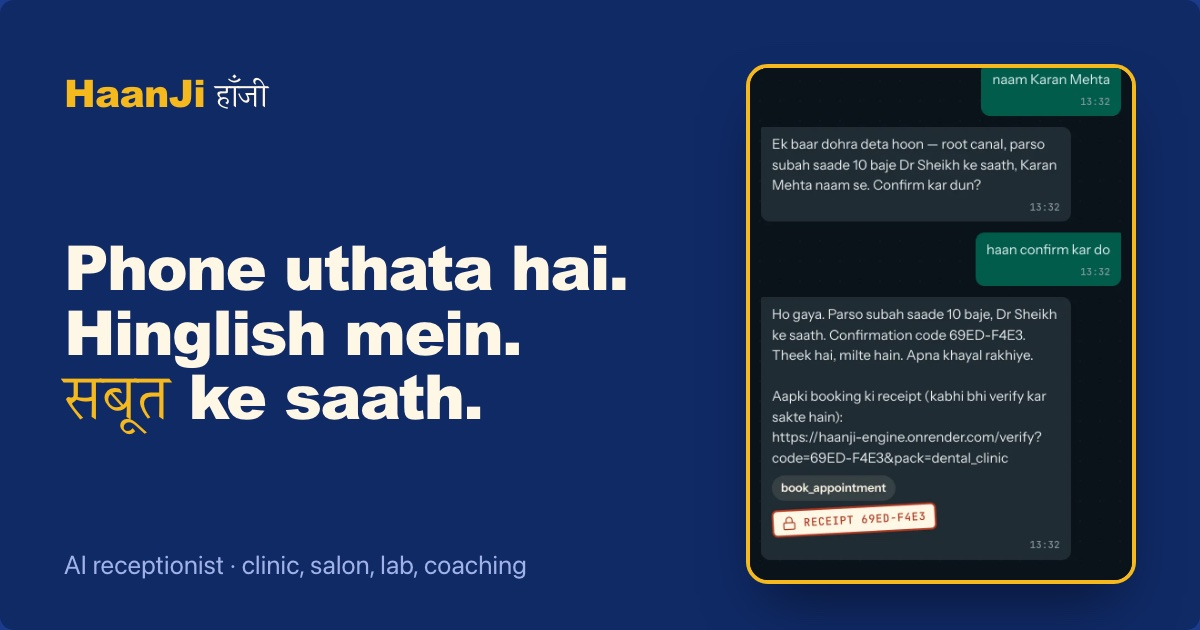
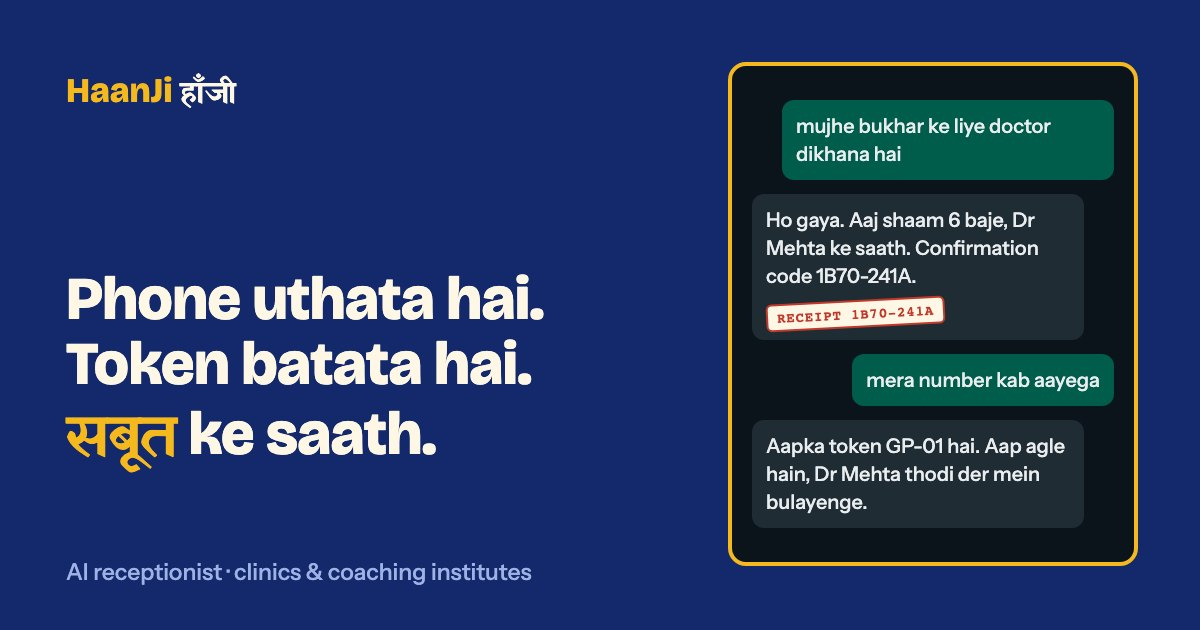
client walkthrough fixes: the call page hears only its own takeover, true next-free times, the nav never clips, clinic-first sample, new screenshot and preview image
Found by walking the product as a visitor, an owner and a receptionist:
- /talk read the shop's whole event stream for a person taking over: every
  other caller's turns with sign-in off, a 401 (and no human replies) with
  it on. It now listens on /api/sessions/{sid}/events, which carries only
  that call's takeover, the person's replies and the hand-back.
- "Today's doctors" said "full today" after closing time; it now shows each
  doctor's next free time (today, or the next open day) and says when there
  are no more slots today.
- The console's links clipped ("Custo", "Settir") from 1101 to 1599 px with
  the Queue link and the signed-in tools; they now take their own row there.
- Sample mode opened on the coaching institute and gave it a bleeding
  emergency; it opens on the clinic, and coaching's urgent handoff is a
  student in distress.
- The landing's screenshot was the old dental shop in Hinglish with test
  numbers; the preview image said "clinic, salon, lab, coaching": both
  replaced (clinic sample in English; the queue answer in the preview).
  Titles, descriptions, the footer and the engine's own page now say
  clinics and coaching institutes; New shop offers clinic or coaching.

diff --git a/engine/haanji/web/index.html b/engine/haanji/web/index.html
@@ -4,10 +4,10 @@
 <meta charset="utf-8">
 <meta name="viewport" content="width=device-width, initial-scale=1">
 <title data-hi="HaanJi · AI receptionist jo Hinglish mein phone uthata hai">HaanJi · the AI receptionist that answers the phone in Hinglish</title>
-<meta name="description" content="An AI receptionist for clinics, salons, labs and coaching centres. A customer calls or messages on WhatsApp, HaanJi talks in Hinglish and makes the booking, and keeps a signed proof of every booking.">
+<meta name="description" content="An AI receptionist for clinics and coaching institutes. A patient or parent calls or messages on WhatsApp, HaanJi talks in Hinglish, books the right doctor or class, runs the token queue, and keeps a signed proof of every booking.">
 <meta property="og:type" content="website">
 <meta property="og:title" content="HaanJi · the AI receptionist that answers the phone in Hinglish">
-<meta property="og:description" content="A customer calls or messages on WhatsApp and HaanJi books the slot. The owner gets a calendar, a call-back list and a proof of every booking. A 2-minute demo in the browser.">
+<meta property="og:description" content="For clinics and coaching institutes: a patient calls or messages on WhatsApp and HaanJi books the right doctor. The owner gets a calendar, a token queue, a call-back list and a proof of every booking.">
 <!-- Link previews need an absolute image URL; this is the public demo's copy. -->
 <meta property="og:image" content="https://haanji-engine.onrender.com/static/og.jpg">
 <meta property="og:image:width" content="1200">
@@ -168,7 +168,7 @@
   <section class="hero wrap">
     <div class="hero-copy">
       <h1 data-reveal style="--i:1" data-hi-html="Phone uthata hai.&lt;br&gt;Hinglish mein.&lt;br&gt;&lt;span class=&quot;dev&quot;&gt;सबूत&lt;/span&gt; ke saath.">Answers the phone.<br>In Hinglish.<br>With proof.</h1>
-      <p class="lead" data-reveal style="--i:2" data-hi="Clinic, salon, lab aur coaching ke liye AI receptionist. Customer call ya WhatsApp kare, HaanJi uski bhasha mein baat karke slot book karta hai, aur har booking ka signed saboot aapke paas rehta hai.">An AI receptionist for clinics, salons, labs and coaching centres. A customer calls or sends a WhatsApp message, HaanJi talks in their language and books the slot, and you keep a signed proof of every booking.</p>
+      <p class="lead" data-reveal style="--i:2" data-hi="Clinic aur coaching institute ke liye AI receptionist. Patient ya parent call ya WhatsApp kare, HaanJi uski bhasha mein baat karke sahi doctor ya class book karta hai, reception ki token queue chalata hai, aur har booking ka signed saboot aapke paas rehta hai.">An AI receptionist for clinics and coaching institutes. A patient or parent calls or sends a WhatsApp message, HaanJi talks in their language, books the right doctor or class, runs the token queue at reception, and you keep a signed proof of every booking.</p>
       <div class="row" data-reveal style="--i:3">
         <a class="btn btn-primary" href="talk" data-hi-html="Abhi baat karke dekho &lt;i data-icon=&quot;arrow&quot;&gt;&lt;/i&gt;">Talk to it now <i data-icon="arrow"></i></a>
         <a class="btn btn-ghost" data-pilot-alt href="#kaise" data-hi="Kaise kaam karta hai">How it works</a>
@@ -236,10 +236,9 @@
         <p class="lead" data-hi="Har business ek pack hai: services, daam, timing, staff, aur woh shabd jo log galat bolte hain. Naya business console ke &quot;Nayi dukaan&quot; mein paanch sawaalon se judta hai.">Each business is a pack: services, prices, hours, staff, and the words people get wrong. A new business is added in five questions, under "New shop" in the console.</p>
       </div>
       <ul class="kinds">
-        <li><b>Dental clinic</b><span>Hinglish · Tanglish (Chennai) · Benglish (Kolkata) · Marathinglish (Pune)</span></li>
-        <li><b data-hi="Salon aur spa">Salon and spa</b><span>Hinglish · Punglish (Ludhiana)</span></li>
-        <li><b>Diagnostic lab</b><span>Hinglish · Tenglish (Hyderabad)</span></li>
-        <li><b>Coaching institute</b><span>Hinglish · Gujlish (Ahmedabad)</span></li>
+        <li><b data-hi="Multispeciality clinic">Multispeciality clinic</b><span data-hi="Dental, general surgery, general physician, bachchon ke doctor, haddi ke doctor, gynaecology · 13 doctors · token queue">Dental, general surgery, general physician, paediatrics, orthopaedics, gynaecology · 13 doctors · token queue</span></li>
+        <li><b>Coaching institute</b><span data-hi="Class 10 aur 11–12 boards (CBSE, ICSE, IB), JEE, NEET">Class 10 and 11–12 boards (CBSE, ICSE, IB), JEE, NEET</span></li>
+        <li><b data-hi="Bhashayein">Languages tested</b><span>Hinglish · Tanglish · Benglish · Marathinglish · Punglish · Tenglish · Gujlish</span></li>
       </ul>
     </div>
   </section>

diff --git a/engine/haanji/web/talk.html b/engine/haanji/web/talk.html
@@ -92,7 +92,7 @@
   .ebody p { text-wrap: pretty; }
   .engine header a { display: inline-flex; align-items: center; gap: 4px; min-height: 24px; }
   /* today's doctors, by department, in the space before the call */
-  .doctors { max-width: 760px; margin: 18px auto 0; }
+  .doctors { width: 100%; max-width: 760px; margin: 18px auto 0; align-self: center; }
   .doctors h2 { font-size: 15px; letter-spacing: .08em; text-transform: uppercase; color: var(--marigold); margin: 0 0 10px; }
   .doctors h2 .closed { color: var(--haze); text-transform: none; letter-spacing: 0; }
   .doctors .depts { display: grid; grid-template-columns: repeat(auto-fill, minmax(200px, 1fr)); gap: 10px; }
@@ -102,6 +102,7 @@
   .doctors li { display: flex; justify-content: space-between; gap: 8px; font-size: 14px; }
   .doctors li span { font-size: 12.5px; color: var(--haze); white-space: nowrap; }
   .doctors li span.free { color: var(--leaf); }
+  .doctors li span.later { color: var(--chalk); opacity: .8; }
   /* the booking card under the agent's reply */
   .bkcard { display: flex; flex-direction: column; gap: 3px; margin-top: 8px; padding: 12px 14px; border-radius: 12px;
             border: 1.5px solid var(--marigold); background: rgba(245, 185, 30, .1); width: 100%; }
@@ -207,7 +208,7 @@
   function listenForHuman() {
     if (!("EventSource" in window) || humanSource) return;
     try {
-      humanSource = new EventSource("api/events?pack=" + encodeURIComponent($("pack").value));
+      humanSource = new EventSource("api/sessions/" + encodeURIComponent(sid) + "/events");
       humanSource.addEventListener("turn", function (ev) {
         try {
           const e = JSON.parse(ev.data);
@@ -315,11 +316,15 @@
     try { d = await api("api/packs/" + encodeURIComponent($("pack").value) + "/doctors"); } catch (e) { d = null; }
     if (!d || !d.departments || !d.departments.length) { box.hidden = true; return; }
     const head = d.role === "doctor" ? L("Today's doctors", "Aaj ke doctors") : L("Today's counsellors", "Aaj ke counsellors");
-    box.innerHTML = "<h2>" + S.esc(head) + (d.open_today ? "" : ' <span class="closed">' + S.esc(L("closed today", "aaj band")) + "</span>") + "</h2>" +
+    const anyToday = d.departments.some(function (g) { return g.staff.some(function (p) { return p.next_free && p.next_free.date === todayIso(); }); });
+    const note = anyToday ? "" : d.open_today ? L("no more slots today", "aaj aur slot nahi") : L("closed today", "aaj band");
+    box.innerHTML = "<h2>" + S.esc(head) + (note ? ' <span class="closed">' + S.esc(note) + "</span>" : "") + "</h2>" +
       '<div class="depts">' + d.departments.map(function (g) {
         return '<div class="dept"><h3>' + S.esc(g.name) + "</h3><ul>" + g.staff.map(function (p) {
-          const when = p.next_free ? L("free at ", "khaali ") + p.next_free : (d.open_today ? L("full today", "aaj full") : "—");
-          return "<li><b>" + S.esc(p.name) + '</b><span class="' + (p.next_free ? "free" : "full") + '">' + S.esc(when) + "</span></li>";
+          const nf = p.next_free;
+          const today = nf && nf.date === todayIso();
+          const when = !nf ? L("no slot this week", "is hafte slot nahi") : today ? L("free at ", "khaali ") + nf.time : dayLabel(nf.date) + " " + nf.time;
+          return "<li><b>" + S.esc(p.name) + '</b><span class="' + (today ? "free" : "later") + '">' + S.esc(when) + "</span></li>";
         }).join("") + "</ul></div>";
       }).join("") + "</div>";
     box.hidden = false;

diff --git a/console/src/sample.ts b/console/src/sample.ts
@@ -32,7 +32,8 @@ export function packInfo(pack: string): PackInfo { return ALL.find((p) => p.pack
 
 // The product is a multispeciality clinic and a coaching institute; the other
 // packs are the research corpus and are not offered as shops.
-const PRODUCT = ALL.filter((p) => p.product);
+// The clinic first: it is the shop the demo opens on.
+const PRODUCT = ALL.filter((p) => p.product).sort((a, b) => Number(b.staff_role === "doctor") - Number(a.staff_role === "doctor"));
 export const SAMPLE_STATUS: Status = {
   name: "HaanJi demo server", version: "1.2.0", default_pack: PRODUCT[0]?.pack_id ?? "dental_clinic",
   packs: (PRODUCT.length ? PRODUCT : ALL).map((p) => p.pack_id),
@@ -268,6 +269,13 @@ function build(p: PackInfo, now: Date): Shop {
       turns = [turn(ask, `${why} Aapka number note kar leta hoon, team aapko call karegi.`),
                turn(`haan theek hai, naam ${person.name || "Ravi"} hai`, "Theek hai, team aapko call karegi.", { tools: ["capture_lead"] })];
     } else if (outcome === "HANDED_OFF") {
+      if (r() < .45 && !/doctor|dentist/i.test(p.staff_role)) {
+        // a coaching institute has no medical emergencies: its urgent handoff is a student in distress
+        turns = [turn("mera beta bahut tension mein hai, pressure nahi jhel pa raha", p.escalation_line,
+                      { tools: ["handoff"], guard: "coaching.distress" })];
+        calls.push(finish(`sample-${p.pack_id}-o${i}`, channelOf(), person.phone, atToday(), "HANDED_OFF", turns, []));
+        continue;
+      }
       if (r() < .45) {
         // an emergency: the engine's guardrail hands it off; out of hours it promises no transfer
         const at = atToday();

diff --git a/console/index.html b/console/index.html
@@ -4,12 +4,12 @@
     <meta charset="UTF-8" />
     <meta name="viewport" content="width=device-width, initial-scale=1.0" />
     <meta name="theme-color" content="#1B3B8C" />
-    <meta name="description" content="HaanJi answers your shop's phone and WhatsApp in Hinglish, books the appointment and keeps a signed receipt. See the demo dashboard." />
-    <title>HaanJi — AI receptionist for Indian shops</title>
+    <meta name="description" content="HaanJi answers a clinic's or coaching institute's phone and WhatsApp in Hinglish, books the right doctor or class, runs the token queue and keeps a signed receipt. See the demo." />
+    <title>HaanJi — AI receptionist for clinics and coaching institutes</title>
     <meta property="og:type" content="website" />
     <meta property="og:site_name" content="HaanJi" />
-    <meta property="og:title" content="HaanJi — AI receptionist for Indian shops" />
-    <meta property="og:description" content="Answers the phone and WhatsApp in Hinglish, books the appointment, and keeps a signed receipt of what the caller agreed to." />
+    <meta property="og:title" content="HaanJi — AI receptionist for clinics and coaching institutes" />
+    <meta property="og:description" content="Answers the phone and WhatsApp in Hinglish, books the right doctor or class, runs the token queue at reception, and keeps a signed receipt of what the caller agreed to." />
     <meta property="og:image" content="https://haanji-kappa.vercel.app/og.jpg" />
     <meta property="og:url" content="https://haanji-kappa.vercel.app/" />
     <meta name="twitter:card" content="summary_large_image" />

diff --git a/console/src/hi/home.ts b/console/src/hi/home.ts
@@ -158,4 +158,5 @@ export default {
   "Phone and WhatsApp, the calendar, the token queue, reminders, and the owner's evening summary.": "Phone aur WhatsApp, calendar, token queue, reminder, aur owner ka shaam ka summary.",
   "When a booked patient arrives, reception checks them in and they get a token such as GP-07; a walk-in gets one at the desk. Reception presses Next patient for each doctor, the waiting-room screen shows the token being seen (never a name), and a patient can call or message to ask how many are ahead.": "Booking wala patient aata hai to reception check-in karta hai aur use GP-07 jaisa token milta hai; walk-in ko desk par milta hai. Reception har doctor ke liye 'Agla patient' dabata hai, waiting room screen par token dikhta hai (naam kabhi nahi), aur patient call ya message karke puchh sakta hai ki aage kitne log hain.",
   "Yes, Hinglish, the way people mix Hindi and English on the phone. The engine has also been tested with Bengali, Marathi, Tamil, Telugu, Gujarati and Punjabi mixed with English.": "Haan, Hinglish, jaise log phone par Hindi aur English milakar bolte hain. Engine ko Bengali, Marathi, Tamil, Telugu, Gujarati aur Punjabi ke English mix ke saath bhi test kiya gaya hai.",
+  "An AI receptionist for clinics and coaching institutes: phone and WhatsApp, in the caller's language.": "Clinics aur coaching institutes ke liye AI receptionist: phone aur WhatsApp, caller ki bhasha mein.",
 } as Record<string, string>;

diff --git a/console/src/signboard.css b/console/src/signboard.css
@@ -65,6 +65,13 @@ p { margin: 0; }
 .live i { width: 7px; height: 7px; border-radius: 50%; background: var(--leaf); box-shadow: 0 0 0 3px rgba(143, 214, 148, .25); }
 .live.off { opacity: .8; }
 .live.off i { background: var(--haze); box-shadow: none; }
+/* Between the phone menu and a wide screen the app's links (six, plus Admin)
+   and its tools (shop, Sample, LIVE, AI, language, Talk, the signed-in user)
+   do not share one row: the links take a row of their own, never clipped. */
+@media (min-width: 1101px) and (max-width: 1599px) {
+  .topbar { flex-wrap: wrap; row-gap: 2px; padding-bottom: 4px; }
+  .navrow { order: 3; flex-basis: 100%; margin-left: -12px; }
+}
 @media (max-width: 720px) {
   .topbar { gap: 8px; padding: 8px 10px; flex-wrap: wrap; }
   .navrow { order: 3; flex-basis: 100%; }

diff --git a/console/src/pages/Onboard.tsx b/console/src/pages/Onboard.tsx
@@ -6,7 +6,8 @@ import { useApp } from "../state";
 import { Chip, Icon, NotLive, Page, Panel } from "../components/Common";
 import type { Draft, DraftRequest } from "../types";
 
-const TYPES: [string, string][] = [["clinic", "Clinic / doctor"], ["salon", "Salon / spa"], ["lab", "Diagnostic lab"], ["coaching", "Coaching institute"], ["other", en("Something else")]];
+// HaanJi is built for clinics and coaching institutes.
+const TYPES: [string, string][] = [["clinic", "Clinic / doctor"], ["coaching", "Coaching institute"]];
 const DAYS: [string, string][] = [["mon", en("Mon")], ["tue", en("Tue")], ["wed", en("Wed")], ["thu", en("Thu")], ["fri", en("Fri")], ["sat", en("Sat")], ["sun", en("Sun")]];
 const STEPS = [en("Shop"), en("People"), en("Hours"), "Services", en("Ready")];
 

diff --git a/console/src/components/Marketing.tsx b/console/src/components/Marketing.tsx
@@ -34,7 +34,7 @@ export function SiteFooter() {
     <footer className="site-foot">
       <div>
         <b>HaanJi <span className="dev">हाँजी</span></b>
-        <p className="muted">{t("An AI receptionist for Indian shops: phone and WhatsApp, in the caller's language.")}</p>
+        <p className="muted">{t("An AI receptionist for clinics and coaching institutes: phone and WhatsApp, in the caller's language.")}</p>
       </div>
       <nav aria-label={t("Footer")}>
         <a href="/engine/privacy">{t("Privacy")}</a>

diff --git a/engine/haanji/server.py b/engine/haanji/server.py
@@ -312,7 +312,8 @@ DEMO_SUFFIX = "_demo"
 
 
 def product_packs() -> list[str]:
-    return research_packs(PRODUCT_DIR)
+    """The product's packs, the default shop first (pickers open on it)."""
+    return sorted(research_packs(PRODUCT_DIR), key=lambda p: p != DEFAULT_PACK)
 
 
 def demo_twins() -> dict[str, str]:
@@ -621,6 +622,50 @@ async def _scoped_stream(pack: str | None, allowed: set[str] | None, queue: asyn
             continue
         if _visible(event, pack, allowed):
             yield chunk
+
+
+SESSION_EVENT_KINDS = ("turn", "session.takeover", "session.handback")
+
+
+def _for_caller(event: dict[str, Any], sid: str) -> dict[str, Any] | None:
+    """What a caller's own page may see: a person at the console taking their
+    call, that person's replies, and the hand-back. Nothing about any other
+    call, and none of the engine's internals."""
+    if event.get("sid") != sid or event.get("kind") not in SESSION_EVENT_KINDS:
+        return None
+    if event["kind"] == "turn" and not event.get("human"):
+        return None
+    return {k: event.get(k) for k in ("seq", "kind", "at", "sid", "human", "reply")}
+
+
+async def _session_stream(sid: str, queue: asyncio.Queue):
+    _subscribers.add(queue)
+    try:
+        yield ": connected\n\n"
+        while sid in _sessions:
+            try:
+                event = await asyncio.wait_for(queue.get(), timeout=KEEPALIVE_S)
+            except asyncio.TimeoutError:
+                yield ": keepalive\n\n"
+                continue
+            shown = _for_caller(event, sid)
+            if shown:
+                yield _sse(shown)
+    finally:
+        _subscribers.discard(queue)
+
+
+@app.get("/api/sessions/{sid}/events")
+async def session_events(sid: str):
+    """The caller's page listens here for a person taking over its call. The
+    session id is the capability: only the page that started the call has it.
+    (The call page used to read the whole shop's stream, which showed a
+    visitor every other caller's turns on a server with sign-in off, and
+    refused them on one with sign-in on.)"""
+    if sid not in _sessions:
+        raise HTTPException(404, "no such session")
+    return StreamingResponse(_session_stream(sid, asyncio.Queue(maxsize=64)), media_type="text/event-stream",
+                             headers={"Cache-Control": "no-cache", "X-Accel-Buffering": "no"})
 
 
 @app.get("/api/events")
@@ -1452,7 +1497,9 @@ _doctors_cache: dict[str, tuple[float, dict[str, Any]]] = {}
 @app.get("/api/packs/{pack_id}/doctors")
 async def pack_doctors(pack_id: str):
     """Public: the shop's doctors (or counsellors) by department, what each
-    one does and their next free time today. Cached for 30 s."""
+    one does and when they are next free: today, or else the next open day
+    within a week (after closing time "full today" was simply untrue).
+    Cached for 30 s."""
     if not re.fullmatch(r"[a-z0-9_]+", pack_id) or pack_id not in list_packs():
         raise HTTPException(404, "no such pack")
     hit = _doctors_cache.get(pack_id)
@@ -1462,12 +1509,17 @@ async def pack_doctors(pack_id: str):
     pack = rt.pack
     groups = pack.departments or [Department(name=pack.staff_role.title(), code="", staff=list(pack.staff))]
 
-    async def next_free(person: str) -> str | None:
+    async def next_free(person: str) -> dict[str, str] | None:
         svc = next((s.name for s in pack.services if person in s.staff), None)
         if svc is None:
             return None
-        got = await rt.backend.availability(pack_id, svc, "today", staff=person, limit=1)
-        return got["slots"][0]["time"] if got.get("slots") else None
+        start = rt.backend.today
+        for ahead in range(8):
+            day = (start + dt.timedelta(days=ahead)).isoformat()
+            got = await rt.backend.availability(pack_id, svc, day, staff=person, limit=1)
+            if got.get("slots"):
+                return {"date": got["slots"][0]["date"], "time": got["slots"][0]["time"]}
+        return None
 
     people = [p for g in groups for p in g.staff]
     frees = dict(zip(people, await asyncio.gather(*(next_free(p) for p in people)), strict=True))

diff --git a/engine/tests/test_product.py b/engine/tests/test_product.py
@@ -111,6 +111,9 @@ def test_the_call_page_lists_today_s_doctors_by_department(client):
     assert len(names) == 13 and all(p["services"] for g in d["departments"] for p in g["staff"])
     gp = next(g for g in d["departments"] if g["code"] == "GP")
     assert {p["name"] for p in gp["staff"]} == {"Dr Mehta", "Dr Verma", "Dr Nair"}
+    # each doctor's next free time is real: today, or the next open day (never "full" after closing)
+    for p in (p for g in d["departments"] for p in g["staff"]):
+        assert p["next_free"] and set(p["next_free"]) == {"date", "time"}
     assert client.get("/api/packs/no_such/doctors").status_code == 404
 
 
@@ -127,3 +130,20 @@ def test_a_web_call_shows_the_offered_doctors_then_a_booking_card(client):
     booked = cards[-1]["booked"]
     assert booked["department"] == "General Physician" and booked["service"] == "general consultation"
     assert booked["receipt"] and isinstance(booked["ahead"], int)
+
+
+def test_a_call_page_hears_only_a_person_taking_its_own_call(client):
+    """The call page used to read the shop's whole event stream: every other
+    caller's turns with sign-in off, a 401 (and no human replies) with it on."""
+    mine, other = "a" * 16, "b" * 16
+    human = {"seq": 1, "kind": "turn", "sid": mine, "human": True, "reply": "Main Priya, reception se.",
+             "heard": "", "spans": [{"name": "x"}], "pack": CLINIC}
+    assert server._for_caller(human, mine) == {"seq": 1, "kind": "turn", "at": None, "sid": mine,
+                                               "human": True, "reply": "Main Priya, reception se."}
+    assert server._for_caller({**human, "sid": other}, mine) is None                  # someone else's call
+    assert server._for_caller({**human, "human": False}, mine) is None                # the agent's own turns
+    assert server._for_caller({"kind": "session.takeover", "sid": mine, "seq": 2}, mine)["kind"] == "session.takeover"
+    assert server._for_caller({"kind": "booking", "sid": mine, "seq": 3}, mine) is None
+    assert client.get("/api/sessions/" + "c" * 16 + "/events").status_code == 404
+    talk = client.get("/talk").text
+    assert "api/events?pack" not in talk and '"/events"' in talk

diff --git a/research/REPORT.md b/research/REPORT.md
@@ -566,7 +566,7 @@ Zhao, D., Sainath, T. N., Rybach, D., Rondon, P., Bhatia, D., Li, B., and Pang, 
 git clone https://github.com/aritra-25hazra/haanji && cd haanji/engine
 python3.11 -m venv .venv && source .venv/bin/activate
 pip install -e ".[dev,web,llm,research]"
-pytest -q                                   # 728 tests, about 6 s
+pytest -q                                   # 729 tests, about 6 s
 python -m haanji.cli selftest               # 44 scenarios reach their expected outcome
 python -m haanji.bench --reps 5 --speed 90  # research/results.json, about 3 min
 cd .. && python research/harness/report_data.py --seeds 5 --reps 3 --speed 90
@@ -614,7 +614,7 @@ python research/harness/report_pdf.py       # this document as PDF; --paper for 
 | clinic_pune | marathi_price_faq | FAQ_ANSWERED | 2 | Marathinglish knowledge base |
 | clinic_pune | marathi_emergency | HANDED_OFF | 1 | Marathinglish guardrail |
 
-## Appendix C. Test inventory (728 tests)
+## Appendix C. Test inventory (729 tests)
 
 | file | tests | what it guards |
 |---|---|---|
@@ -654,7 +654,7 @@ python research/harness/report_pdf.py       # this document as PDF; --paper for 
 | test_auth_password.py | 6 | email + password sign-in: only a salted scrypt hash is kept, ten wrong tries lock the email, the owner gets the same token and device session, staff sign in by email, no password login with sign-in off, the owner comes from HAANJI_OWNER_EMAIL / _PASSWORD at boot |
 | test_google_login.py | 5 | Sign in with Google: an allowed email signs in and the token rides in the URL fragment, an unknown email is turned away, a forged or old state is refused, the ID token's audience, issuer, expiry and verified email are checked, no button without a Google client |
 | test_public_simulator.py | 10 | a demo server with sign-in on: a stranger can chat in the WhatsApp simulator and read back only the chat they started (a signed visitor pass), cannot list threads or read without a pass, typing someone else's number starts a fresh chat, the owner still sees every thread, a real shop keeps it behind sign-in, /talk's lines are public and only lines, the simulator's missed-call button works for a stranger and never sends a real WhatsApp |
-| test_product.py | 9 | product mode: the clinic and coaching packs (packs/product/) are valid, keep their departments and pass their own scenarios, stay out of the research corpus; the server offers only them and their demo copies; a visitor books into the demo copy and the shop stays clean; the owner signed in writes to the shop; a demo copy cannot be edited; the call page lists today's doctors by department and shows the offered doctors, then a booking card |
+| test_product.py | 10 | product mode: the clinic and coaching packs (packs/product/) are valid, keep their departments and pass their own scenarios, stay out of the research corpus; the server offers only them and their demo copies; a visitor books into the demo copy and the shop stays clean; the owner signed in writes to the shop; a demo copy cannot be edited; the call page lists today's doctors by department and shows the offered doctors, then a booking card; each doctor's next free time is real (today or the next open day); a call page hears only a person taking its own call |
 | test_token_queue.py | 7 | the token queue: check-in gives a department token once, a booking for another day cannot check in, walk-ins go to the shortest line and Next calls in order, a place in line with a rough wait, a caller asking 'mera number kab aayega' in a chat hears their token, the waiting-room screen is public and shows no names or numbers, the TV page is served |
 | test_telephony.py | 4 | the Twilio media-stream bridge with fake recogniser and synthesiser |
 | test_telephony_exotel.py | 5 | the same bridge on Exotel's wire: G.711 conversion matches the standard, outgoing audio in valid Exotel chunks, a call greeted, answered and recorded, the recogniser always hears μ-law, a public server needs the applet's key |

diff --git a/README.md b/README.md
@@ -3,7 +3,7 @@
 [![ci](https://github.com/aritra-25hazra/haanji/actions/workflows/ci.yml/badge.svg)](https://github.com/aritra-25hazra/haanji/actions/workflows/ci.yml)
 [![engine](https://img.shields.io/website?url=https%3A%2F%2Fhaanji-engine.onrender.com%2Fapi%2Fstatus&label=engine&up_message=live&down_message=waking)](https://haanji-engine.onrender.com)
 [![console](https://img.shields.io/website?url=https%3A%2F%2Fhaanji-kappa.vercel.app&label=console&up_message=live)](https://haanji-kappa.vercel.app)
-![tests](https://img.shields.io/badge/tests-728%20passing-1F6B45)
+![tests](https://img.shields.io/badge/tests-729%20passing-1F6B45)
 [![security](https://github.com/aritra-25hazra/haanji/actions/workflows/security.yml/badge.svg)](https://github.com/aritra-25hazra/haanji/actions/workflows/security.yml)
 [![Open in GitHub Codespaces](https://github.com/codespaces/badge.svg)](https://codespaces.new/aritra-25hazra/haanji?quickstart=1)
 ![licence](https://img.shields.io/badge/licence-Apache--2.0-1B3B8C)
@@ -98,7 +98,7 @@ pip install -e ".[dev]"
 
 python -m haanji.cli demo          # one narrated call, at real speaking speed
 python -m haanji.cli selftest      # all 44 packaged scenarios, all ten packs
-pytest -q                          # 728 tests
+pytest -q                          # 729 tests
 python -m haanji.bench             # regenerates research/results.json
 ```
 
@@ -194,7 +194,7 @@ PRAMAAN LEDGER
 │   │   ├── insights.py      outcome/revenue/cost analytics behind /api/insights
 │   │   ├── bench.py         the evaluation harness that produces every number
 │   │   └── cli.py           demo · selftest · bench · verify · serve · packs
-│   └── tests/               728 tests, including the safety properties and the demo pages
+│   └── tests/               729 tests, including the safety properties and the demo pages
 │   │   ├── admin.py         the console's operations: calendar, customers, settings, waitlist, payments, backup
 │   │   ├── reminders.py     the day-before WhatsApp reminder and the "1 / 2" replies
 │   │   ├── payments.py      deposit links (Razorpay, or this server's mock), the signed webhook
@@ -609,7 +609,7 @@ A project report should say what was verified and what was not.
   - Until then the demo uses the WhatsApp simulator (`/whatsapp`).
   - `/api/status` → `whatsapp.last_send` shows Meta's latest answer.
 
-* **The Python engine is fully executed here.** 728 tests, 44 scenarios across
+* **The Python engine is fully executed here.** 729 tests, 44 scenarios across
   ten packs and seven languages, and the entire benchmark run on this
   machine. Every number in this README comes from that run.
 * **The React console builds here.** `npm run build` type-checks the whole
